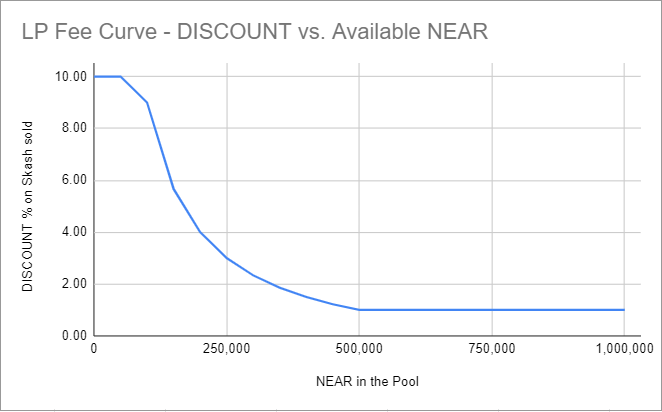
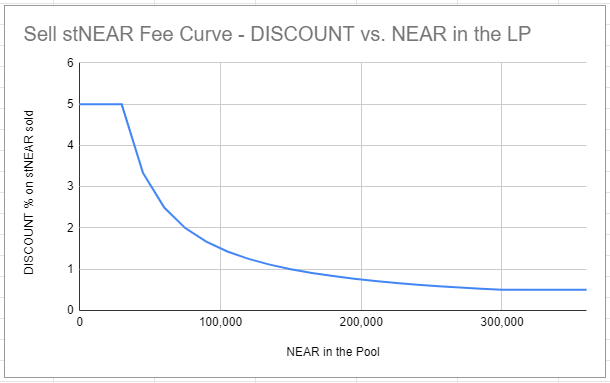
clarify discount curve & target

diff --git a/metapool/src/lib.rs b/metapool/src/lib.rs
@@ -221,12 +221,12 @@ pub struct MetaPool {
     //The next 3 values define the Liq.Provider fee curve
     // NEAR/stNEAR Liquidity pool fee curve params
     // We assume this pool is always UNBALANCED, there should be more stNEAR than NEAR 99% of the time
-    ///NEAR/stNEAR Liquidity pool target
-    pub nslp_near_target: u128,
+    ///NEAR/stNEAR 1% fee Liquidity target. If the Liquidity reach this amount, the fee is 1%
+    pub nslp_near_one_percent_target: u128, // 150_000*NEAR initially
     ///NEAR/stNEAR Liquidity pool max fee
-    pub nslp_max_discount_basis_points: u16, //10%
+    pub nslp_max_discount_basis_points: u16, //5% initially
     ///NEAR/stNEAR Liquidity pool min fee
-    pub nslp_min_discount_basis_points: u16, //0.1%
+    pub nslp_min_discount_basis_points: u16, //0.5% initially
 
     //The next 3 values define meta rewards multiplers %. (100 => 1x, 200 => 2x, ...)
     ///for each stNEAR paid staking reward, reward stNEAR holders with g-stNEAR. default:5x. reward META = rewards * mult_pct / 100
@@ -308,7 +308,7 @@ impl MetaPool {
             total_meta: 0,
             accounts: UnorderedMap::new("A".into()),
             loan_requests: LookupMap::new("L".into()),
-            nslp_near_target: NEAR * 1_000_000,
+            nslp_near_one_percent_target: 150_000*NEAR,
             nslp_max_discount_basis_points: 500, //5%
             nslp_min_discount_basis_points: 50,   //0.5%
             ///for each stNEAR paid as discount, reward stNEAR sellers with g-stNEAR. default:1x. reward META = discounted * mult_pct / 100

diff --git a/metapool/src/owner.rs b/metapool/src/owner.rs
@@ -220,7 +220,7 @@ impl MetaPool {
             staking_paused: self.staking_paused,
             min_account_balance: self.min_account_balance.into(),
 
-            nslp_near_target: self.nslp_near_target.into(),
+            nslp_near_one_percent_target: self.nslp_near_one_percent_target.into(),
             nslp_max_discount_basis_points: self.nslp_max_discount_basis_points,
             nslp_min_discount_basis_points: self.nslp_min_discount_basis_points,
 
@@ -241,7 +241,7 @@ impl MetaPool {
 
         self.min_account_balance = params.min_account_balance.0;
 
-        self.nslp_near_target = params.nslp_near_target.0;
+        self.nslp_near_one_percent_target = params.nslp_near_one_percent_target.0;
         self.nslp_max_discount_basis_points = params.nslp_max_discount_basis_points;
         self.nslp_min_discount_basis_points = params.nslp_min_discount_basis_points;
 

diff --git a/metapool/src/types.rs b/metapool/src/types.rs
@@ -212,8 +212,8 @@ pub struct ContractParamsJSON {
     /// adjustable min account available balance (to backup storage)
     pub min_account_balance: U128String,
 
-    ///NEAR/stNEAR Liquidity pool target
-    pub nslp_near_target: U128String,
+    ///NEAR/stNEAR Liquidity pool 1% fee target. If Liquidity=target, fee is 1%
+    pub nslp_near_one_percent_target: U128String,
     ///NEAR/stNEAR Liquidity pool max fee
     pub nslp_max_discount_basis_points: u16, //10%
     ///NEAR/stNEAR Liquidity pool min fee

diff --git a/docs/index.md b/docs/index.md
@@ -14,7 +14,7 @@ This contract provides the following value items for the NEAR community:
 * This contract helps decentralization by distributing it's delegated funds to several validators. If you own a lockup-contract with considerable funds, you can greatly contribute to the decentralization of the network and reduce your risk. Your funds will be automatically distributed between several validators ensuring increased decentralization and continuous rewards.
 
 #### Creates new Liquidity Pools
-* This contract includes several liquidity pools and the opportunity for liquidity providers to earn fees. The main pool is the NEAR/stNEAR pool that provides immediate unstake (sell stNEAR) for a fee 0.5-10%. There will be other pools (on Phase II) like the stNEAR/$META for the governance tokens.
+* This contract includes several liquidity pools and the opportunity for liquidity providers to earn fees. The main pool is the NEAR/stNEAR pool that provides immediate unstake (sell stNEAR) for a fee 0.5-5%. There will be other pools (on Phase II) like the stNEAR/$META for the governance tokens.
 
 #### Creates a safety-net to avoid losing validators on the seat-price cliff 
 * This contract will allow struggling validators to keep a seat and keep validating in case of sudden rises in seat-price. There will be staking-loans available for whitelisted validators and also emergencies stakes from the liquidity pool. Pools requiring staking will have to pay 8-epoch rewards in advance. All fees will be distributed as rewards between the stNEAR holders or the Liquidity providers.
@@ -33,7 +33,7 @@ In the Liquidity Pool:
  * Users providing liquidity can earn fees on each sell
  * Users wanting to unstake without the waiting period can do so for a fee.
 
-The *NEAR/stNEAR Liquidity Pool* is a one-sided Liquidity pool. Liquidity providers add only NEAR to the Liq. Pool. The Liq. Pool allows other users to SELL stNEAR for NEAR (unstake) at a discounted price. The discount represents how much users value skipping the 39-52hs waiting period to receive their funds. The discount varies with the amount of NEAR in the Liquidity Pool, but the curve is capped at the extremes. By default, discount fees are in the range 0.5-5%, but the curve parameters can be adjusted by DAO governance (by the vote of $META governance token holders).
+The *NEAR/stNEAR Liquidity Pool* is a one-sided Liquidity pool. Liquidity providers add only NEAR to the Liq. Pool. The Liq. Pool allows other users to SELL stNEAR for NEAR (unstake) at a discounted price. The discount represents how much users value skipping the 39-52hs waiting period to receive their funds. The discount varies with the amount of NEAR in the Liquidity Pool, but the curve is capped at the extremes. By default, discount fees are in the range 5%-0.5%, but the curve parameters can be adjusted by DAO governance (by the vote of $META governance token holders).
 
 ![example-fee-curve](images/example-fee-curve.png)
 
